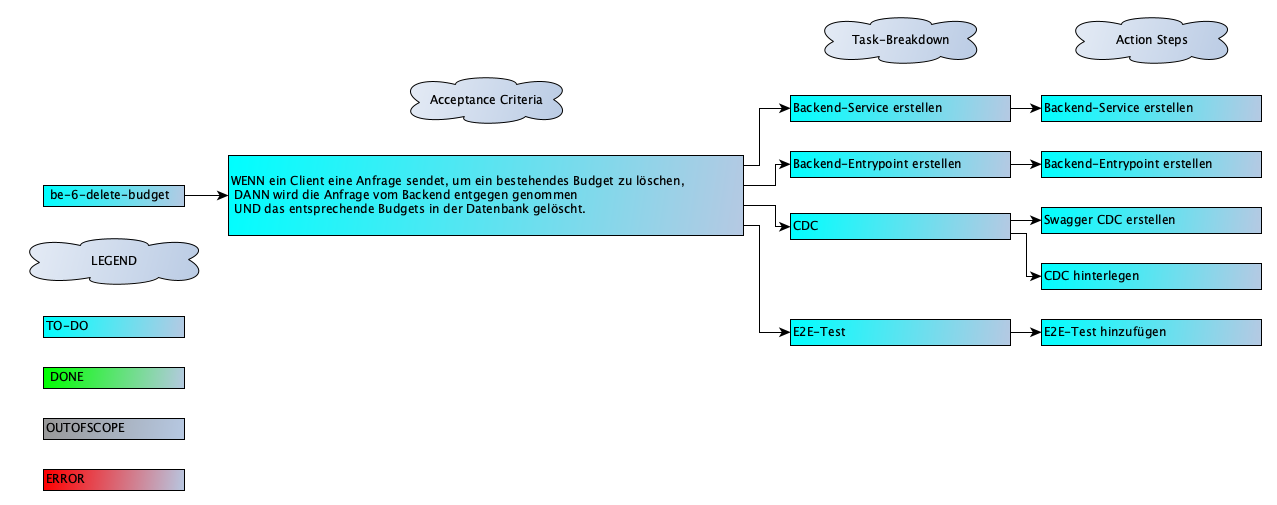
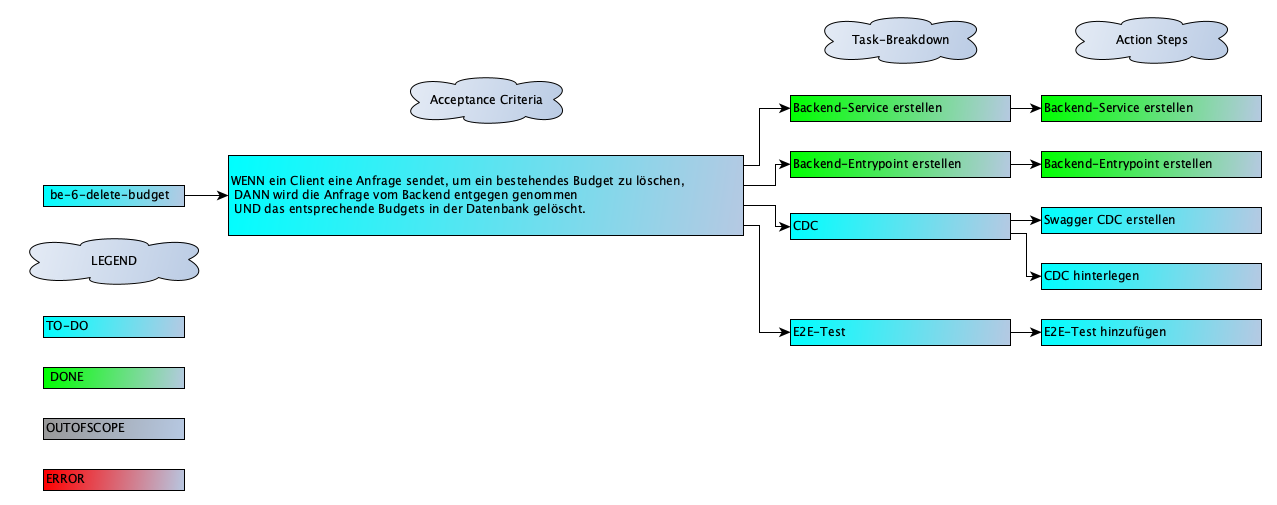
be-6 create entrypoint and service

Changed region(s): [[0.6108, 0.297, 0.9773, 0.3564], [0.6108, 0.1782, 0.9773, 0.2376]]

diff --git a/backend/src/apis/budget/budget.controller.spec.ts b/backend/src/apis/budget/budget.controller.spec.ts
@@ -7,6 +7,7 @@ jest.mock('./budget.service', () => ({
     findAll: jest.fn(),
     addNewBudget: jest.fn(),
     updateBudget: jest.fn(),
+    deleteBudget: jest.fn(),
   })),
 }));
 
@@ -37,6 +38,7 @@ describe('BudgetController', () => {
     (budgetService.findAll as jest.Mock).mockResolvedValue(mockedBudgets);
     (budgetService.addNewBudget as jest.Mock).mockResolvedValue(undefined);
     (budgetService.updateBudget as jest.Mock).mockResolvedValue(undefined);
+    (budgetService.deleteBudget as jest.Mock).mockResolvedValue(undefined);
 
     controller = module.get<BudgetController>(BudgetController);
   });
@@ -94,6 +96,25 @@ describe('BudgetController', () => {
 
     await expect(() => controller.editBudget(mockedBudgets[0])).rejects.toThrow(
       'Fehler beim Bearbeiten des Budgets: Error: Service failure',
+    );
+  });
+
+  it('deletes a budget', async () => {
+    const result = await controller.deleteBudget(mockedBudgets[0]);
+
+    expect(result).toBeUndefined();
+    expect(budgetService.deleteBudget).toHaveBeenCalledWith(mockedBudgets[0]);
+  });
+
+  it('throws if deleteBudget call fails', async () => {
+    (budgetService.deleteBudget as jest.Mock).mockImplementation(() => {
+      throw new Error('Service failure');
+    });
+
+    await expect(() =>
+      controller.deleteBudget(mockedBudgets[0]),
+    ).rejects.toThrow(
+      'Fehler beim Löschen des Budgets: Error: Service failure',
     );
   });
 });

diff --git a/backend/src/apis/budget/budget.service.spec.ts b/backend/src/apis/budget/budget.service.spec.ts
@@ -66,6 +66,7 @@ describe('BudgetService', () => {
       create: jest.fn().mockReturnValue(mockedBudgetsEntity[0]),
       save: jest.fn().mockResolvedValue(mockedBudgetsEntity[0]),
       update: jest.fn().mockResolvedValue(mockedBudgetsEntity[0]),
+      remove: jest.fn().mockResolvedValue(mockedBudgetsEntity[0]),
     };
 
     jest
@@ -149,6 +150,26 @@ describe('BudgetService', () => {
 
     await expect(() =>
       service.updateBudget(mockedBudgetsEntityMapped[0]),
+    ).rejects.toThrow('Database error');
+  });
+
+  it('deletes budget in repository', async () => {
+    await service.deleteBudget(mockedBudgetsEntityMapped[0]);
+
+    expect(repository.findOne).toHaveBeenCalledWith({
+      where: { category: mockedBudgetsEntityMapped[0].category },
+    });
+
+    expect(repository.remove).toHaveBeenCalledWith(mockedBudgetsEntity[0]);
+  });
+
+  it('throws error if deleting Budget in repository fails', async () => {
+    jest
+      .spyOn(repository, 'findOne')
+      .mockRejectedValue(new Error('Database error'));
+
+    await expect(() =>
+      service.deleteBudget(mockedBudgetsEntityMapped[0]),
     ).rejects.toThrow('Database error');
   });
 });

diff --git a/backend/src/apis/budget/budget.service.ts b/backend/src/apis/budget/budget.service.ts
@@ -45,7 +45,7 @@ export class BudgetService {
       });
 
       if (!budgetToUpdate) {
-        console.error('No budget found with category ${editedBudget.category}');
+        console.error(`No budget found with category ${editedBudget.category}`);
         return;
       }
 
@@ -57,6 +57,26 @@ export class BudgetService {
       await this.budgetsRepository.update(budgetToUpdate.id, update);
     } catch (error) {
       console.error('Failed to update budget in database', error);
+      throw error;
+    }
+  }
+
+  async deleteBudget(budget: APIBudgetDTO): Promise<void> {
+    try {
+      const budgetToDelete: Budgets = await this.budgetsRepository.findOne({
+        where: { category: budget.category },
+      });
+
+      if (!budgetToDelete) {
+        console.error(
+          `No budget found with category ${budgetToDelete.category}`,
+        );
+        return;
+      }
+
+      await this.budgetsRepository.remove(budgetToDelete);
+    } catch (error) {
+      console.error('Failed to delete budget in database', error);
       throw error;
     }
   }

diff --git a/backend/src/apis/budget/budget.controller.ts b/backend/src/apis/budget/budget.controller.ts
@@ -1,9 +1,9 @@
 import {
   Body,
   Controller,
+  Delete,
   Get,
   HttpStatus,
-  Patch,
   Post,
   Put,
 } from '@nestjs/common';
@@ -59,6 +59,24 @@ export class BudgetController {
       await this.budgetService.updateBudget(editedBudget);
     } catch (error) {
       throw new Error(`Fehler beim Bearbeiten des Budgets: ${error}`);
+    }
+  }
+
+  @Delete('deleteBudget')
+  @ApiOperation({ summary: 'Delete an existing budget' })
+  @ApiResponse({
+    status: HttpStatus.OK,
+    description: 'Budget successfully deleted',
+  })
+  @ApiResponse({
+    status: HttpStatus.NOT_FOUND,
+    description: 'Budget not found',
+  })
+  async deleteBudget(@Body() budget: APIBudgetDTO): Promise<void> {
+    try {
+      await this.budgetService.deleteBudget(budget);
+    } catch (error) {
+      throw new Error(`Fehler beim Löschen des Budgets: ${error}`);
     }
   }
 }
